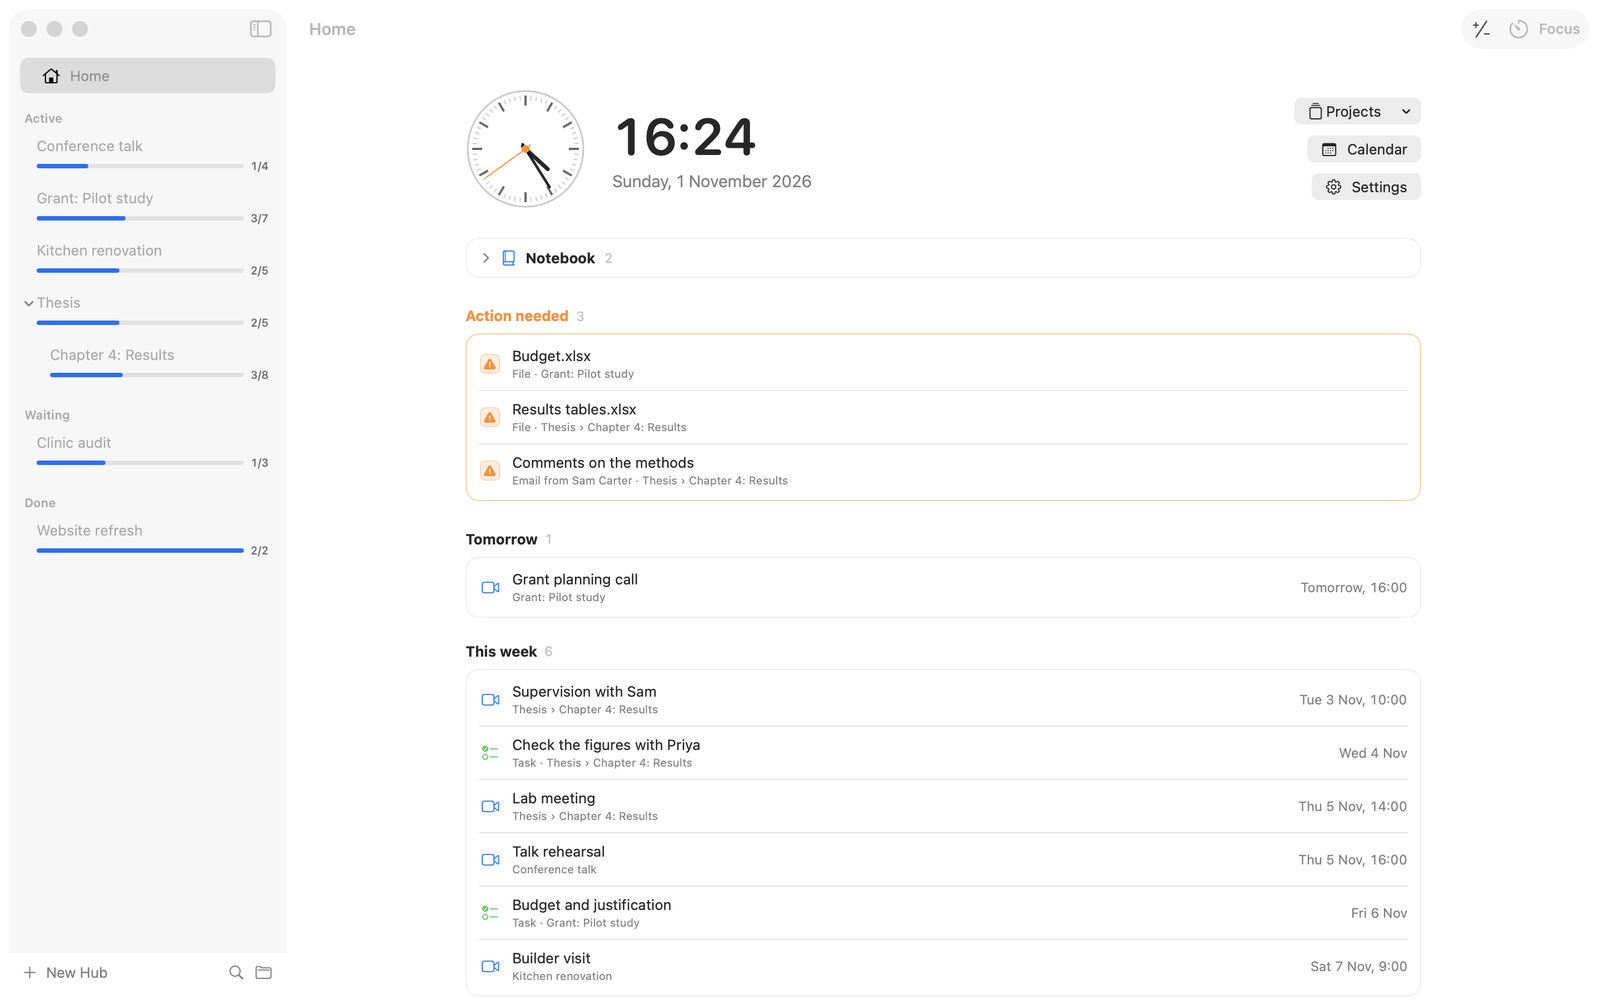
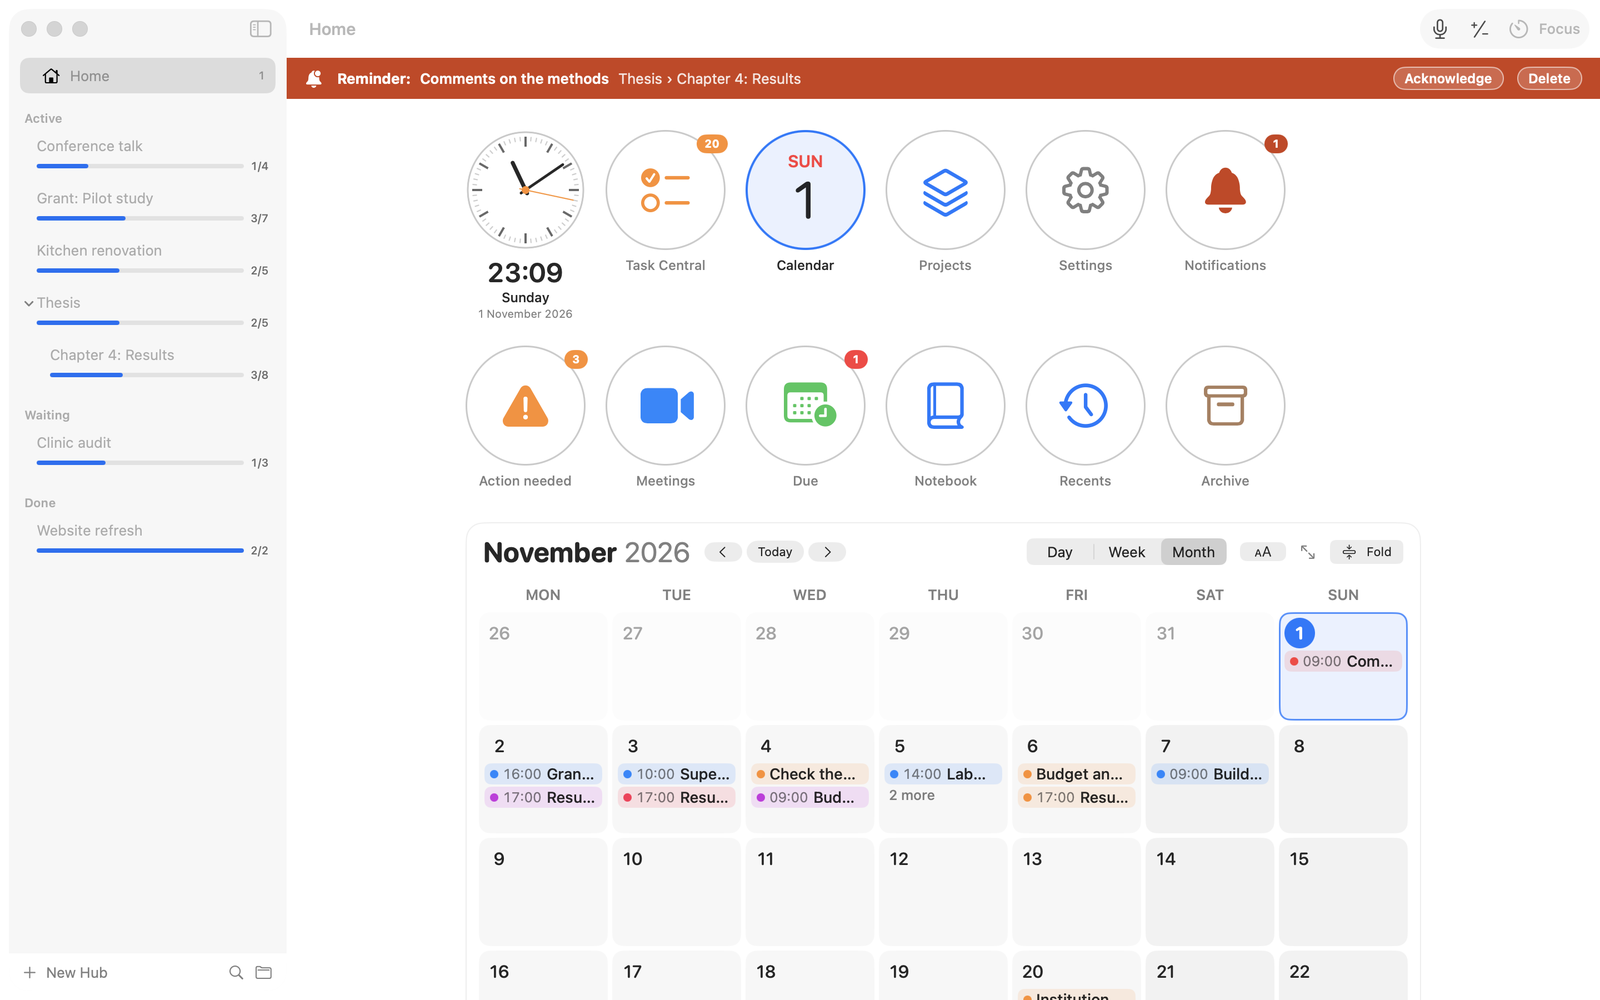
Hub page: pictures from Hub 0.31.5, Outlook email and focus clock highlights, try free for a month, prices £5.99 and £59

diff --git a/src/hub/index.html b/src/hub/index.html
@@ -1,6 +1,6 @@
 <!--
 title: Hub: Your Work Organised | B Medicine
-description: Hub gives each project one page on your Mac: its files and links, tasks, notes, meetings, emails, Claude sessions and the time you spend on it. No account, no adverts, no analytics.
+description: Hub gives each project one page on your Mac: its files and links, tasks, notes, meetings, emails, deadlines, Claude sessions and the time you spend on it. No account, no adverts, no analytics.
 og_image: hub-page-chapter.png
 body_class: hub
 -->
@@ -9,10 +9,32 @@ body_class: hub
   <div class="wrap">
     <img class="app-icon" src="/assets/img/hub-icon.png" alt="Hub's icon" width="256" height="256">
     <h1>Hub: Your Work Organised</h1>
-    <p class="lead">One page for each project: its files and links, Claude sessions, tasks, notes, meetings, emails
-    and the time you spend on it. For the Mac.</p>
+    <p class="lead">One page for each project: its files and links, Claude sessions, tasks, notes, meetings, emails,
+    deadlines and the time you spend on it. For the Mac.</p>
     <span class="pill">Coming soon to the Mac App Store</span>
     <img class="shot" src="/assets/img/hub-page-chapter.png" alt="Hub showing a made-up thesis chapter: its files, links, tasks, messages and meetings on one page" width="1600" height="1000">
+  </div>
+</section>
+
+<section class="band">
+  <div class="wrap highlights">
+    <div class="highlight">
+      <div class="highlight-text">
+        <h2>Drag an email straight from Outlook</h2>
+        <p>Drag an email out of Outlook, or Apple Mail, and drop it on a project's page. Hub saves a copy in your
+        emails folder and keeps its sender, date and text on the page, where you can read and search it. Emails
+        downloaded from Gmail come in the same way.</p>
+      </div>
+      <img class="shot" src="/assets/img/hub-email-outlook.png" alt="An email from Outlook on a project's page in Hub, open to show its sender, date and text, with Hub's notice: Getting the email from Outlook" width="1176" height="1214" loading="lazy">
+    </div>
+    <div class="highlight flip">
+      <div class="highlight-text">
+        <h2>A focus clock and a calculator at hand</h2>
+        <p>The focus clock times a spell of work, then a break. The calculator opens in its own small window beside
+        your work. Both are one click away in the toolbar.</p>
+      </div>
+      <img class="shot" src="/assets/img/hub-focus-calculator.png" alt="Hub's focus clock counting down, and its calculator, open over a project's page" width="1600" height="1202" loading="lazy">
+    </div>
   </div>
 </section>
 
@@ -21,10 +43,12 @@ body_class: hub
     <div class="features">
       <div class="feature"><h3>Files and links where they are</h3><p>Drag files, folders and web links onto a
       project's page. Hub links to them in place; it does not move or copy your files.</p></div>
-      <div class="feature"><h3>Tasks, notes, meetings and a log</h3><p>Each project keeps its next step, its tasks
-      and sub-tasks, notes, meetings (including calendar invitations) and a dated log of what was done.</p></div>
-      <div class="feature"><h3>Emails</h3><p>Drag emails in from Mail or Outlook, or download them from Gmail; Hub
-      keeps a copy in a folder you choose.</p></div>
+      <div class="feature"><h3>Tasks, notes, meetings and emails</h3><p>Each project keeps its next step, its tasks
+      and sub-tasks, notes, meetings (including calendar invitations), emails from Mail, Outlook or Gmail (Hub keeps
+      a copy in a folder you choose) and a dated log of what was done.</p></div>
+      <div class="feature"><h3>Deadlines and Task Central</h3><p>Give a file, link, note, email or task a deadline,
+      a few words on what it is for and a reminder before it. Home and the Calendar show what is due; Task Central
+      lists your projects' tasks in one window.</p></div>
       <div class="feature"><h3>Time</h3><p>A focus clock, a timer for each project and a record of the time
       spent.</p></div>
       <div class="feature"><h3>Claude</h3><p>If you use the Claude app or Claude Code, Hub lists the sessions run in
@@ -38,9 +62,11 @@ body_class: hub
 <section class="band">
   <div class="wrap">
     <div class="gallery">
-      <figure><img class="shot" src="/assets/img/hub-home.png" alt="Hub's Home page: the next step of each project, meetings and reminders" width="1600" height="1000" loading="lazy"><figcaption>Home: what is next in each project.</figcaption></figure>
-      <figure><img class="shot" src="/assets/img/hub-calendar-week.png" alt="Hub's Calendar showing a week of meetings and deadlines from several projects" width="1600" height="1000" loading="lazy"><figcaption>The week across every project.</figcaption></figure>
-      <figure><img class="shot" src="/assets/img/hub-details-card.png" alt="A file's details in Hub: status, colour, star, note and where it is" width="1120" height="884" loading="lazy"><figcaption>Press and hold a file for its details.</figcaption></figure>
+      <figure><img class="shot" src="/assets/img/hub-home.png" alt="Hub's Home page: a clock, icons for Task Central, the Calendar, notifications and more, a reminder bar and the month's calendar" width="1600" height="1000" loading="lazy"><figcaption>Home: today, what is due and the month ahead.</figcaption></figure>
+      <figure><img class="shot" src="/assets/img/hub-calendar-week.png" alt="Hub's Calendar showing a week of meetings, deadlines and reminders from several projects" width="1600" height="1000" loading="lazy"><figcaption>The week across every project.</figcaption></figure>
+      <figure><img class="shot" src="/assets/img/hub-deadline-editor.png" alt="Giving a file in Hub a deadline, what it is for and a reminder 24 hours before it" width="1600" height="1000" loading="lazy"><figcaption>A deadline and a reminder for a file, note, email or task.</figcaption></figure>
+      <figure><img class="shot" src="/assets/img/hub-taskcentral.png" alt="Hub's Task Central window listing the tasks of several projects" width="1600" height="1000" loading="lazy"><figcaption>Task Central: your projects' tasks in one window.</figcaption></figure>
+      <figure><img class="shot" src="/assets/img/hub-details-card.png" alt="A file's details in Hub: status, colour, star, note, where it is, deadline and reminder" width="1120" height="940" loading="lazy"><figcaption>Press and hold a file for its details.</figcaption></figure>
       <figure><img class="shot" src="/assets/img/hub-page-chapter-dark.png" alt="Hub's project page in dark mode" width="1600" height="1000" loading="lazy"><figcaption>Hub follows your Mac's light or dark appearance.</figcaption></figure>
     </div>
     <p class="note center">The projects, names and files in these pictures are made up.</p>
@@ -50,9 +76,11 @@ body_class: hub
 <section>
   <div class="wrap">
     <div class="price-box">
-      <p class="price">Free for a month, then £4.99 a month or £49 a year</p>
-      <p>Prices in other countries are set by the App Store. When a subscription ends, everything you have put in
-      Hub stays yours to open and use.</p>
+      <p class="price">Try Hub free for a month</p>
+      <p class="price-then">Then £5.99 a month or £59 a year</p>
+      <p>The free month is for new subscribers. A plan renews until you cancel it in your App Store account, and
+      prices in other countries are set by the App Store. When a subscription ends, everything you have put in Hub
+      stays yours to open and use.</p>
       <p class="small">Requires macOS 14 Sonoma or later, on a Mac with Apple silicon.</p>
       <div class="btn-row center">
         <a class="btn btn-ghost" href="/hub/support/">Support</a>

diff --git a/src/assets/site.css b/src/assets/site.css
@@ -172,11 +172,17 @@ section { padding: 88px 0; }
     radial-gradient(circle at 80% 0%, rgba(72, 130, 240, .18), transparent 40%), var(--paper); }
 .hub-hero .app-icon { width: 120px; height: 120px; margin: 0 auto 18px; border-radius: 28px; box-shadow: var(--shadow); }
 .hub-hero .lead { margin: 0 auto 8px; }
-.hub-hero .shot { margin: 40px auto 0; max-width: 1040px; }
+.hub-hero .shot { margin: 40px auto 0; max-width: min(1040px, 100%); }
 .features { display: grid; grid-template-columns: repeat(auto-fill, minmax(300px, 1fr)); gap: 20px; }
 .feature { background: var(--white); border: 1px solid var(--line); border-radius: var(--radius); padding: 22px; }
 .feature h3 { font-size: 1.1rem; }
 .feature p { color: var(--ink-2); margin: 0; }
+.highlights { display: grid; gap: 80px; }
+.highlight { display: grid; grid-template-columns: .85fr 1.15fr; gap: 56px; align-items: center; }
+.highlight.flip { grid-template-columns: 1.15fr .85fr; }
+.highlight.flip .highlight-text { order: 2; }
+.highlight h2 { margin-bottom: .45em; }
+.highlight p { color: var(--ink-2); font-size: 1.08rem; }
 .gallery { display: grid; grid-template-columns: repeat(2, 1fr); gap: 28px; }
 .gallery figure { margin: 0; }
 .gallery figcaption { color: var(--ink-2); font-size: .95rem; margin-top: 12px; text-align: center; }
@@ -184,7 +190,8 @@ section { padding: 88px 0; }
   background: var(--white); border: 1px solid var(--line); border-radius: var(--radius);
   padding: 28px; box-shadow: var(--shadow); text-align: center; max-width: 720px; margin: 0 auto;
 }
-.price-box .price { font-size: 1.5rem; font-weight: 800; margin-bottom: 6px; }
+.price-box .price { font-size: 1.7rem; font-weight: 800; margin-bottom: 6px; }
+.price-box .price-then { font-size: 1.1rem; font-weight: 700; margin-bottom: 14px; }
 .small { font-size: .9rem; color: var(--ink-2); }
 
 /* Prose pages (privacy, terms, support) */
@@ -220,7 +227,9 @@ section { padding: 88px 0; }
 /* Narrow screens */
 @media (max-width: 860px) {
   .hero { padding: 56px 0 64px; }
-  .hero-grid, .app-feature, .about { grid-template-columns: 1fr; }
+  .hero-grid, .app-feature, .about, .highlight, .highlight.flip { grid-template-columns: 1fr; }
+  .highlight { gap: 28px; }
+  .highlight.flip .highlight-text { order: 0; }
   .hero-mark { order: -1; width: 180px; justify-self: start; }
   .about-mark { width: 120px; }
   .gallery { grid-template-columns: 1fr; }

diff --git a/src/hub/terms/index.html b/src/hub/terms/index.html
@@ -18,7 +18,7 @@ updated: 1 November 2026
 
   <h2>The subscription</h2>
   <ul>
-    <li><strong>Plans.</strong> Monthly, at £4.99 a month, or yearly, at £49 a year (in the United Kingdom; in other
+    <li><strong>Plans.</strong> Monthly, at £5.99 a month, or yearly, at £59 a year (in the United Kingdom; in other
     countries the App Store shows the price in your currency).</li>
     <li><strong>The free month.</strong> Each plan starts with one free month for new subscribers, once per Apple
     Account. Nothing is charged during the free month.</li>

diff --git a/src/index.html b/src/index.html
@@ -107,6 +107,7 @@ body_class: home
         <ul class="ticks">
           <li>One page for each project: files and links, tasks, notes, meetings and emails.</li>
           <li>Your files stay where they are; Hub links to them in place.</li>
+          <li>Deadlines with reminders, and Task Central for your projects' tasks.</li>
           <li>A focus clock and the time spent on each project.</li>
           <li>Everything stays on your Mac: no account, no adverts, no analytics.</li>
         </ul>
